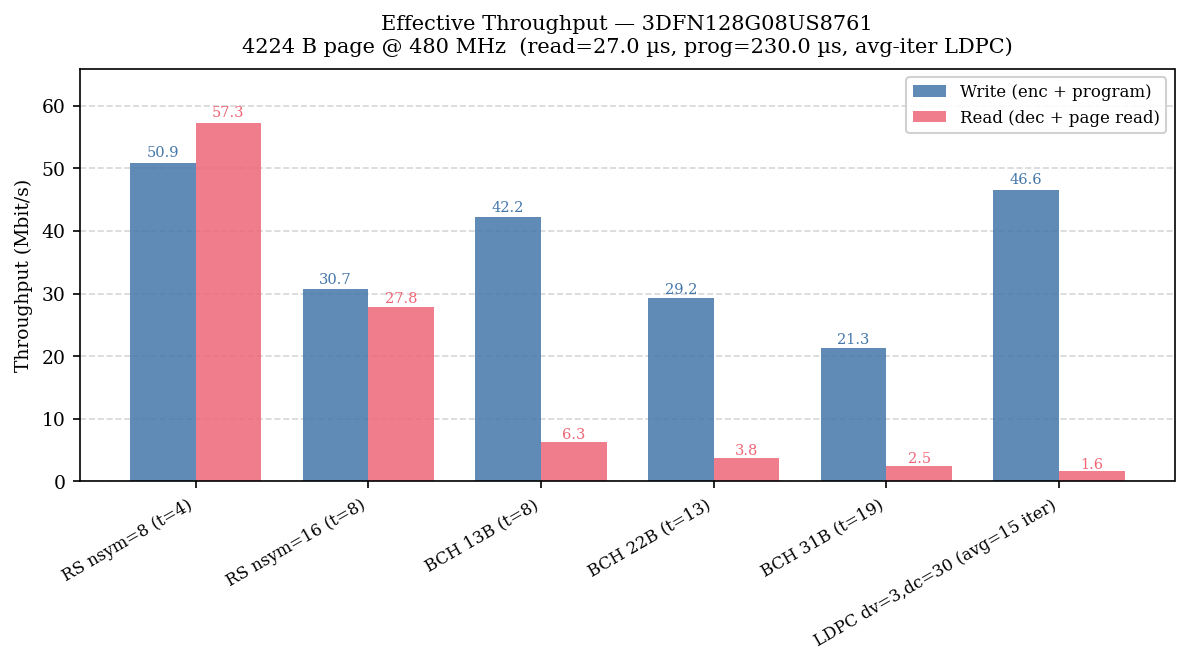
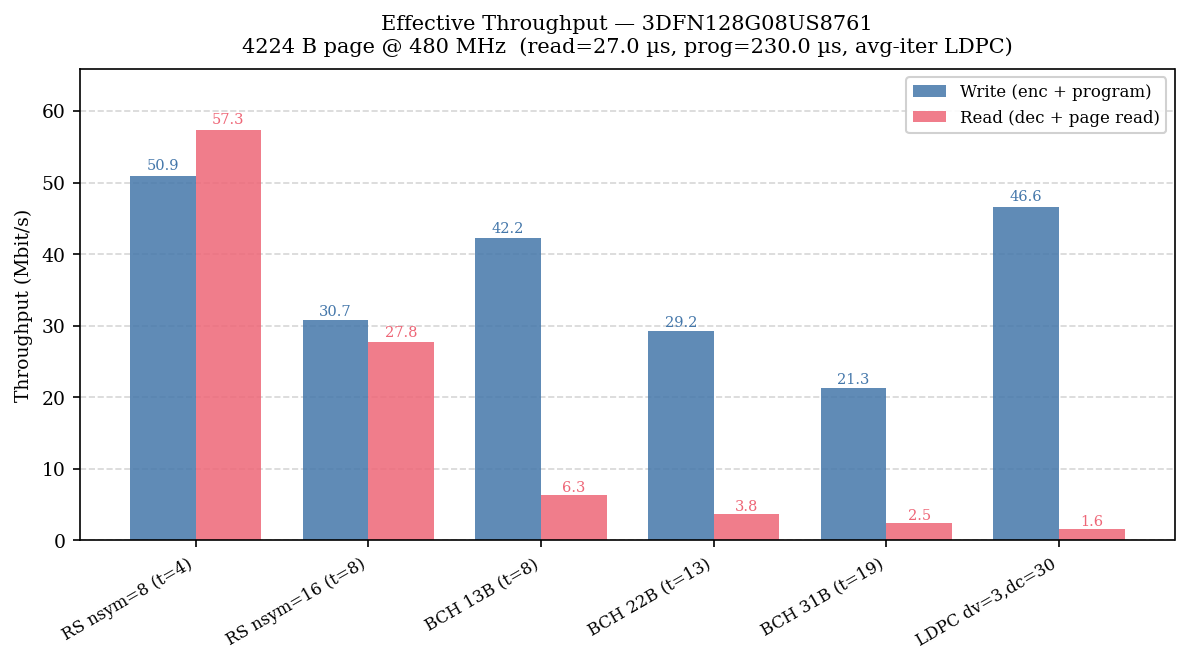
minor fixes, burst not working properly

diff --git a/monte_carlo.py b/monte_carlo.py
@@ -8,6 +8,8 @@ simulation interfaces.
 LEO Radiation Model Parameters
 ──────────────────────────────
 • SEU to Burst SEU ratio: 10 : 1 (single : burst)
+  – seu_rate parameter = single-bit SEU rate [events/bit/s]
+  – Burst events are an independent Poisson process at 1/10 that rate
 • Burst size distribution:
       2 bits          55 %   (protons / low-LET ions)
       3–4 bits        30 %   (medium-LET ions, GCR)
@@ -41,6 +43,9 @@ except ImportError:
 
 # Cumulative probability thresholds
 _BURST_CDF = np.array([0.55, 0.85, 0.97, 1.00])
+
+# Burst occurrence ratio: burst events per single-bit SEU
+_BURST_SEU_RATIO = 0.1   # 1 burst event per 10 single-bit SEUs
 
 
 def sample_burst_size(rng: np.random.Generator) -> int:
@@ -82,13 +87,14 @@ def inject_errors_leo(flat_page: np.ndarray,
                       ) -> Tuple[np.ndarray, InjectionRecord]:
     """Inject errors into a flat page using the LEO radiation model.
 
-    The SEU rate drives total radiation-event count via Poisson sampling.
-    Events are partitioned 10:1 into single-bit SEUs and multi-bit burst
-    SEUs.  Burst sizes are sampled from the LEO distribution.
+    Single-bit SEUs and burst events are modelled as two independent
+    Poisson processes.  ``seu_rate`` is the single-bit SEU rate; burst
+    events occur at 1/10 of that rate (``_BURST_SEU_RATIO``).
+    Burst sizes are sampled from the LEO distribution.
 
     Args:
         flat_page       : 1-D uint8 array (the full encoded page).
-        seu_rate        : radiation event rate  [events / bit / s].
+        seu_rate        : single-bit SEU rate  [events / bit / s].
         scrub_interval  : seconds between scrubbing events.
         rng             : numpy random Generator for reproducibility.
         page_size_bits  : override total bit count (default: len * 8).
@@ -104,16 +110,17 @@ def inject_errors_leo(flat_page: np.ndarray,
     if seu_rate < 1e-30 or total_bits == 0:
         return out, rec
 
-    # Total radiation events in this scrub window
-    lam_events = seu_rate * total_bits * scrub_interval
-    n_events = int(rng.poisson(lam_events))
-    if n_events == 0:
+    # Single-bit SEUs and burst events are independent Poisson processes.
+    # seu_rate is the single-bit SEU rate; burst rate is 1/10 of that.
+    lam_single = seu_rate * total_bits * scrub_interval
+    lam_burst  = lam_single * _BURST_SEU_RATIO
+
+    n_singles = int(rng.poisson(lam_single))
+    n_bursts  = int(rng.poisson(lam_burst))
+
+    if n_singles == 0 and n_bursts == 0:
         return out, rec
 
-    # Partition into single-bit SEUs and burst events  (10 : 1)
-    # Each event independently has P(burst) = 1/11
-    n_bursts = int(rng.binomial(n_events, 1.0 / 11.0))
-    n_singles = n_events - n_bursts
     rec.n_single_seus = n_singles
     rec.n_burst_events = n_bursts
 
@@ -170,22 +177,22 @@ def inject_errors_leo_conditional(
 ) -> Tuple[np.ndarray, float]:
     """Importance-sampling variant of inject_errors_leo.
 
-    Forces at least one radiation event by sampling from a zero-truncated
-    Poisson distribution (rejection sampling: draw until N >= 1), then
-    applies the LEO burst model exactly as in ``inject_errors_leo``.
+    Forces at least one radiation event (single or burst) by rejection
+    sampling from two independent Poisson processes until the total
+    count is ≥ 1, then applies the LEO burst model exactly as in
+    ``inject_errors_leo``.
 
     The caller is responsible for weighting the resulting UBER estimate by
-    the returned probability ``p_flip = P(≥1 event) = 1 - exp(-λ)`` so that
-    the unconditional UBER is recovered::
+    the returned probability ``p_flip = P(≥1 event) = 1 - exp(-λ_total)``
+    so that the unconditional UBER is recovered::
 
         UBER_true = p_flip * mean(UBER | ≥1 event)
 
-    This avoids wasting iterations on zero-event pages, giving much higher
-    resolution at low SEU rates where most Poisson draws would be zero.
+    ``λ_total = λ_single + λ_burst = λ_single × (1 + _BURST_SEU_RATIO)``.
 
     Args:
         flat_page      : 1-D uint8 array (encoded page).
-        seu_rate       : radiation event rate [events / bit / s].
+        seu_rate       : single-bit SEU rate [events / bit / s].
         scrub_interval : seconds between scrub events.
         rng            : numpy random Generator.
         page_size_bits : override total bit count (default: len * 8).
@@ -196,30 +203,33 @@ def inject_errors_leo_conditional(
     """
     n_bytes = len(flat_page)
     total_bits = page_size_bits if page_size_bits is not None else n_bytes * 8
-    lam_events = seu_rate * total_bits * scrub_interval
+
+    # seu_rate is the single-bit SEU rate; burst rate is 1/10 of that.
+    lam_single = seu_rate * total_bits * scrub_interval
+    lam_burst  = lam_single * _BURST_SEU_RATIO
+    lam_total  = lam_single + lam_burst
 
     # P(at least one radiation event) — the importance weight
-    p_flip = 1.0 - math.exp(-lam_events) if lam_events < 700.0 else 1.0
+    p_flip = 1.0 - math.exp(-lam_total) if lam_total < 700.0 else 1.0
 
-    if lam_events < 1e-300 or total_bits == 0:
+    if lam_total < 1e-300 or total_bits == 0:
         # Essentially zero probability: flip one bit as a degenerate sample.
         # The caller's p_flip weight will suppress this to near zero.
         out = flat_page.copy()
         out[0] ^= np.uint8(1)
         return out, p_flip
 
-    # Zero-truncated Poisson: resample until n_events >= 1 (fast for λ > 0.01;
-    # expected number of rejection steps = exp(λ) / (exp(λ) - 1) ≤ 1/(1-e^-λ))
-    n_events = 0
-    while n_events == 0:
-        n_events = int(rng.poisson(lam_events))
+    # Zero-truncated: resample until at least one event (single or burst)
+    n_singles = 0
+    n_bursts  = 0
+    while n_singles + n_bursts == 0:
+        n_singles = int(rng.poisson(lam_single))
+        n_bursts  = int(rng.poisson(lam_burst))
 
-    # Identical partitioning / injection logic as inject_errors_leo
+    # Injection logic (same as inject_errors_leo)
     out = flat_page.copy()
     rec = InjectionRecord()
 
-    n_bursts  = int(rng.binomial(n_events, 1.0 / 11.0))
-    n_singles = n_events - n_bursts
     rec.n_single_seus   = n_singles
     rec.n_burst_events  = n_bursts
 

diff --git a/compare_ecc_single.py b/compare_ecc_single.py
@@ -55,7 +55,7 @@ from utils import (
     encode_with_bch, decode_with_bch,
     encode_with_bch_chunked, decode_with_bch_chunked,
 )
-from monte_carlo import inject_errors_leo, inject_errors_leo_conditional, _POPCOUNT8
+from monte_carlo import inject_errors_leo, inject_errors_leo_conditional, _POPCOUNT8, _BURST_SEU_RATIO
 
 # ===========================================================
 #  OUTPUT DIRECTORY
@@ -98,7 +98,7 @@ UBER_REQ       = 1e-12
 #       NUM_ITERS ≥ 1 / (UBER_floor × NUM_SECTORS)
 #   e.g. 10⁻⁴ floor → ≥1 250 iters,  10⁻⁵ floor → ≥12 500 iters.
 #
-NUM_ITERS      = 10          # iterations per (architecture × SEU-rate point)
+NUM_ITERS      = 10         # iterations per (architecture × SEU-rate point)
                                # → floor ≈ 1.25×10⁻⁴  (smooth down to ~10⁻⁴)
 # Cap at 61: Python 3.13 on Windows enforces a strict 61-worker handle limit.
 _CPU_COUNT  = os.cpu_count() or 1
@@ -521,6 +521,8 @@ def _worker(task):
         # This eliminates zero-event iterations and greatly improves resolution
         # at low SEU rates where λ << 1 and most Poisson draws would be zero.
         lam_page = seu_rate * (page_size * 8) * scrub_interval
+        if mode == "burst":
+            lam_page *= (1.0 + _BURST_SEU_RATIO)  # burst events add 1/10 of single-bit SEU rate
         p_flip = 1.0 - exp(-lam_page) if lam_page < 700.0 else 1.0
 
         inject = (_inject_burst_conditional if mode == "burst"

diff --git a/ecc_timing.py b/ecc_timing.py
@@ -513,7 +513,7 @@ def build_ldpc_timing(page_size: int, worst_case: bool = False) -> EccTiming:
     iter_label = "max" if worst_case else "avg"
 
     return EccTiming(
-        label=f"LDPC dv={dv},dc={dc} ({iter_label}={n_iters} iter)",
+        label=f"LDPC dv={dv},dc={dc}",
         code_type="ldpc",
         page_size=page_size,
         k=k, n=page_size,
@@ -723,8 +723,7 @@ def plot_timing_bars(all_timings: dict, freq_hz: float,
 
         iter_tag = "worst-case" if worst_case else "avg-iter"
         ax.set_title(
-            f"ECC Encoding / Decoding Latency — {page_size} B page @ {label_freq}\n"
-            f"(software model, {iter_tag} LDPC)",
+            f"ECC Encoding / Decoding Latency — {page_size} B page @ {label_freq}\n",
             pad=8,
         )
         ax.set_ylabel("Latency (µs)")
